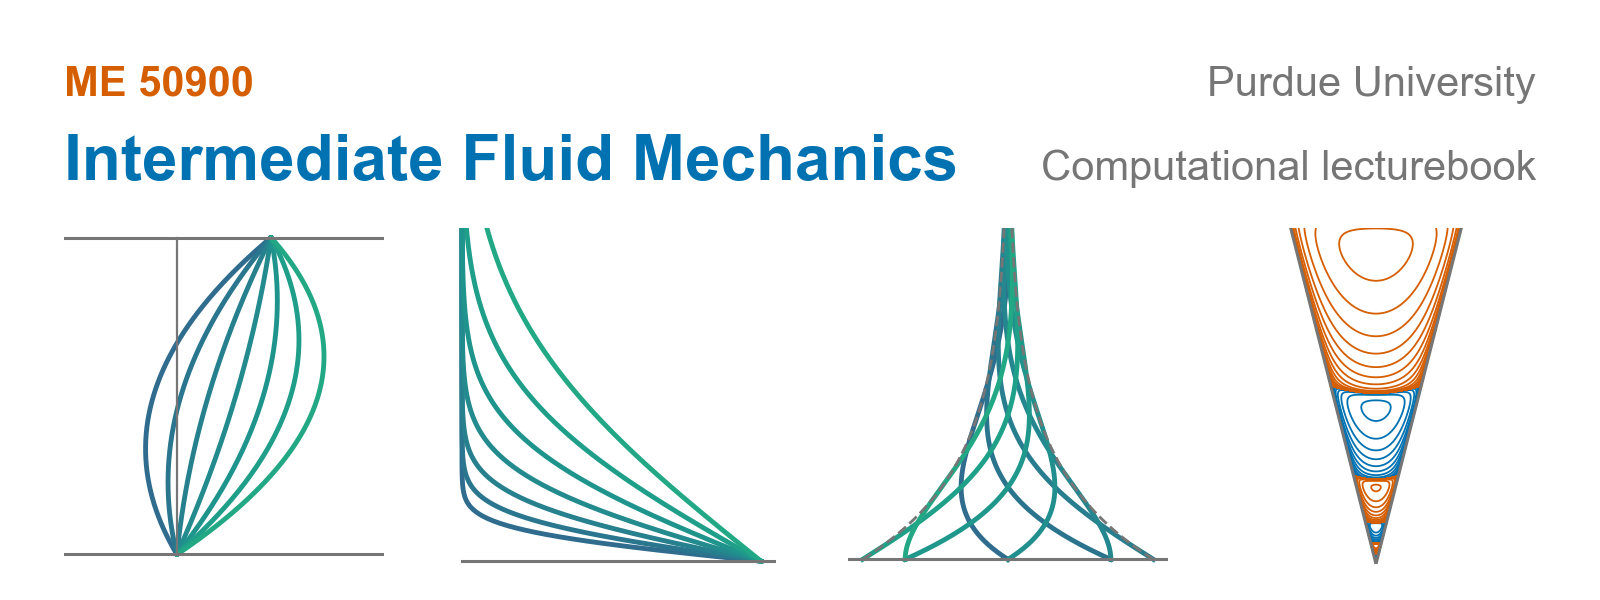
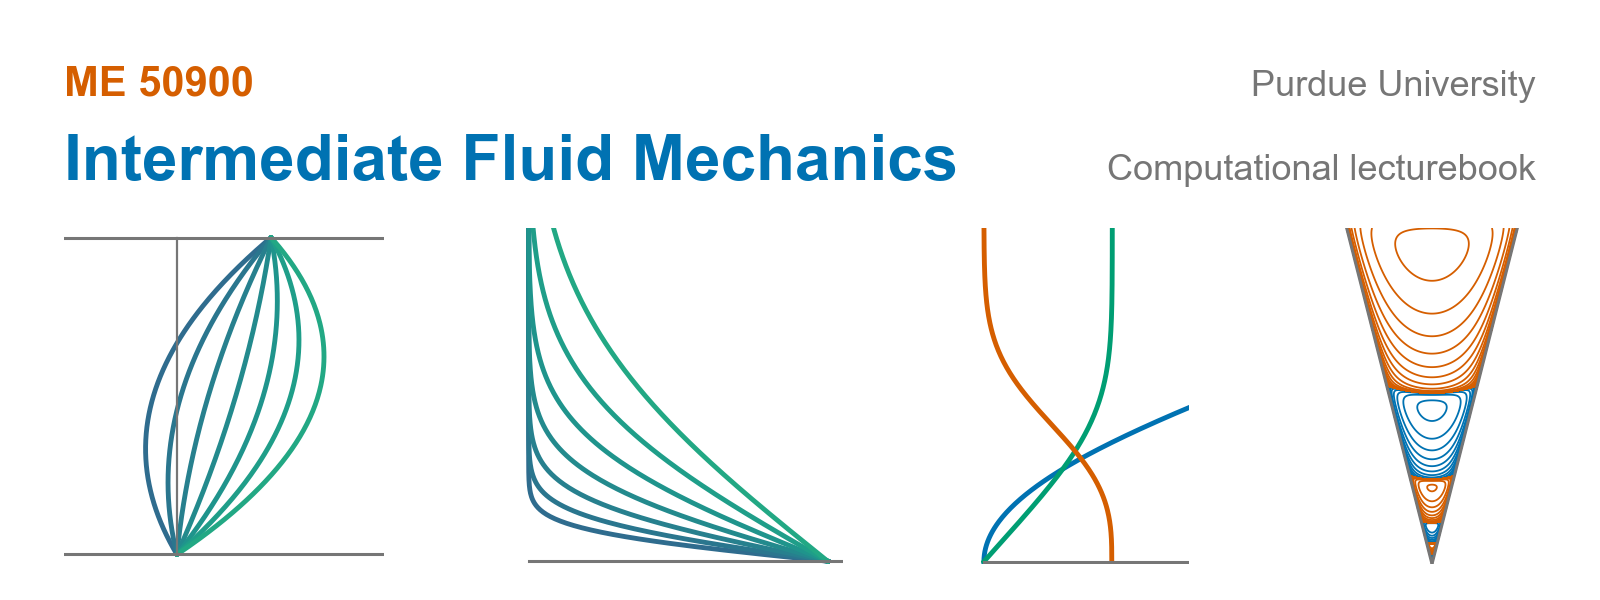
update the cover image with new example #iykyk

diff --git a/README.md b/README.md
@@ -6,7 +6,7 @@
 [![Last commit](https://img.shields.io/github/last-commit/ichristov/intermediate-fluid-mechanics)](https://github.com/ichristov/intermediate-fluid-mechanics/commits/main)
 [![GitHub stars](https://img.shields.io/github/stars/ichristov/intermediate-fluid-mechanics?style=social)](https://github.com/ichristov/intermediate-fluid-mechanics)
 
-![Schematic of four flows from the course, under the printed text ME 50900, Intermediate Fluid Mechanics, Purdue University, Computational lecturebook. Left to right: a family of velocity profiles between two parallel walls; velocity profiles spreading upward from a suddenly moved plate over time; velocity profiles above an oscillating plate, inside a dashed envelope that decays with height; and a sequence of eddies in a wedge that opens upward, alternating in color and shrinking toward the corner at the bottom.](assets/cover.png)
+![Schematic of four flows from the course, under the printed text ME 50900, Intermediate Fluid Mechanics, Purdue University, Computational lecturebook. Left to right: a family of velocity profiles between two parallel walls; velocity profiles spreading upward from a suddenly moved plate over time; three curves starting at a wall, one decaying with height, one leveling off at a constant value, and one growing without bound; and a sequence of eddies in a wedge that opens upward, alternating in color and shrinking toward the corner at the bottom.](assets/cover.png)
 
 Jupyter-based computational lecturebook for ME 50900 &ndash; Intermediate Fluid Mechanics at Purdue University taught by Prof. [Ivan C. Christov](https://christov.tmnt-lab.org).
 The notebooks cover tensors, kinematics, unidirectional flows, the Navier&ndash;Stokes equations, dimensional analysis, similarity solutions, ideal flow, boundary layers, Stokes flow, and lubrication theory, using Python with SymPy for symbolic calculations and Matplotlib for visualizations.
